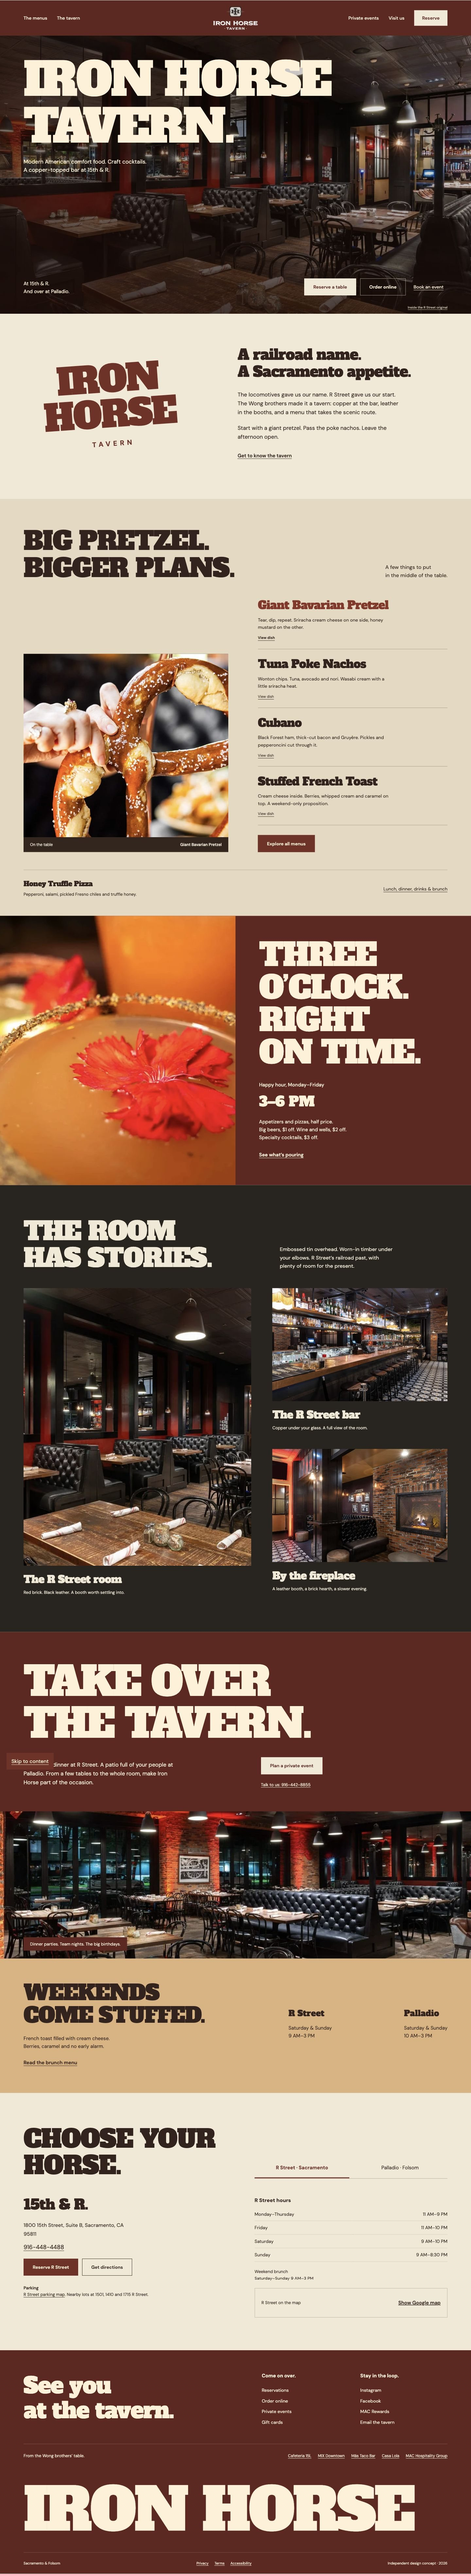
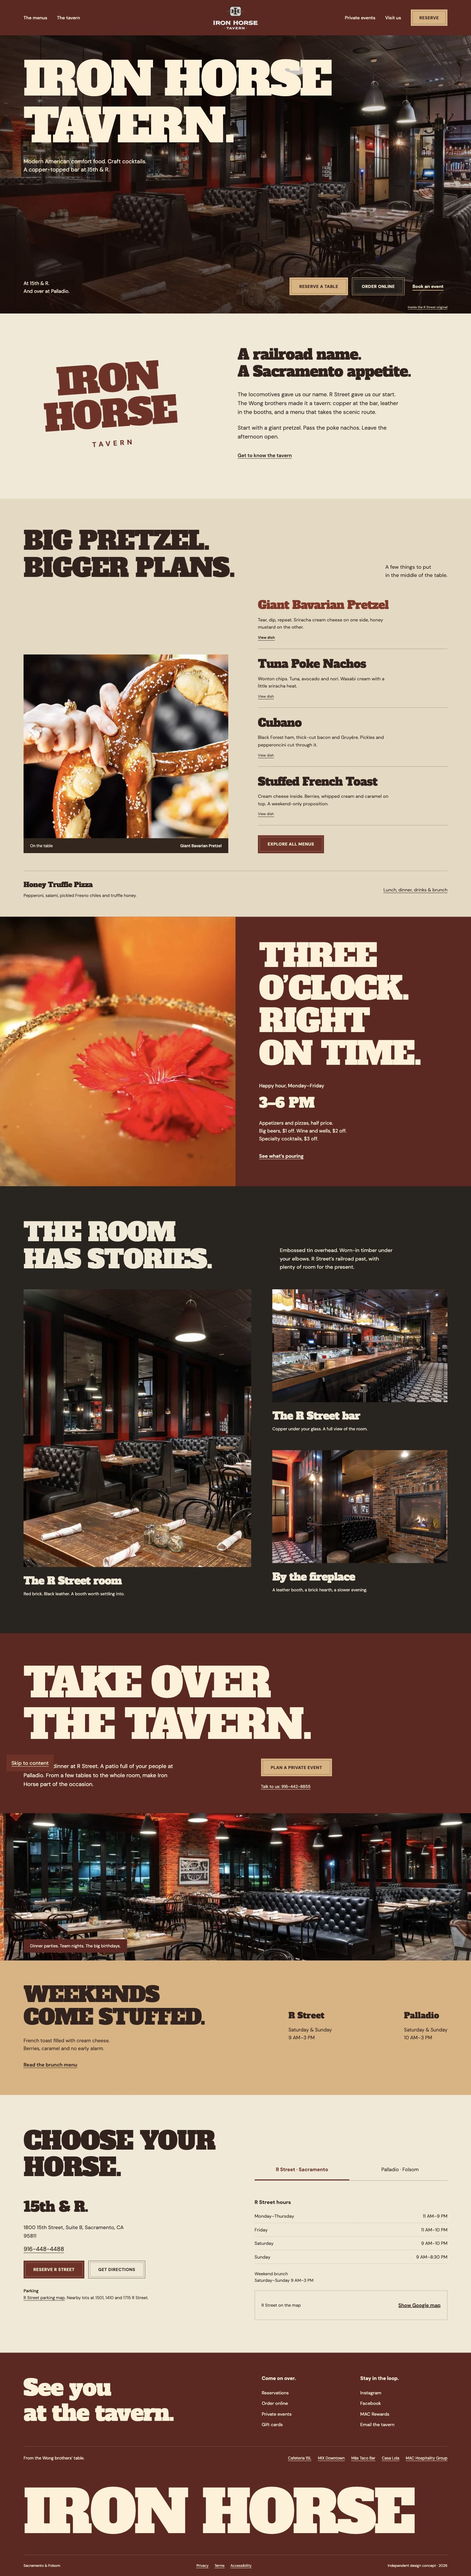
Style tavern buttons with copper frames and clear interaction states
Add inset sign-inspired frames, copper primary actions, outlined secondary actions, subtle press feedback and contrasting keyboard focus. Apply matching controls to mobile navigation and galleries. Preserve labels and destinations.

Checked responsive layouts from 320 to 1440px, local reservation navigation, mobile menu, gallery controls and light/dark contrast. Refresh desktop and mobile previews.

diff --git a/assets/horse.css b/assets/horse.css
@@ -1,7 +1,7 @@
 @font-face{font-family:'Alfa Slab One';font-style:normal;font-weight:400;font-display:swap;src:url('./fonts/alfa-slab-one-0.ttf') format('truetype')}
 :root{scroll-padding-top:24px;scrollbar-color:#d4a06d #63251f}
 .iron-horse-tavern{--paper:#f2e9d6;--ink:#35221d;--muted:#685044;--accent:#762e24;--on-accent:#fff1d6;--panel:#e6dac0;--line:#35221d44;--display:'Alfa Slab One',Georgia,serif;--gutter:clamp(24px,5vw,88px);--space:clamp(70px,8vw,130px);color-scheme:light;max-width:none}
-.shell{max-width:none}.iron-horse-tavern h1,.iron-horse-tavern h2,.iron-horse-tavern h3{font-weight:400;letter-spacing:-.025em}.iron-horse-tavern h1,.iron-horse-tavern h2{line-height:1.06}.iron-horse-tavern h3{text-transform:none}.iron-horse-tavern p{line-height:1.6}a{text-underline-offset:.28em}::selection{background:#d6a16f;color:#331914}:focus-visible{outline-color:#a2592f;outline-offset:6px}.button,.main-nav .button{border-radius:0;min-height:52px;padding:16px 27px;letter-spacing:0;font-size:14px;transition:background .2s,color .2s}.button:hover{transform:none;background:#532018;color:#fff1d6;filter:none}.button.secondary{border-color:currentColor}.button.secondary:hover{background:var(--ink);color:var(--paper)}.plain-link{font-weight:600;font-size:15px;min-height:44px}button:focus-visible,a:focus-visible{outline-width:3px}.site-header{height:108px;background:#63251f;color:#fff1d6;border:0;padding:0 var(--gutter);display:grid;grid-template-columns:1fr 170px 1fr;gap:32px;z-index:40}.brand{grid-column:2;grid-row:1;justify-self:center}.iron-horse-tavern .brand img{filter:none;width:158px;max-height:86px;object-fit:contain}.main-nav{display:contents}.nav-left,.nav-right{display:flex;align-items:center;gap:30px;grid-row:1}.nav-left{grid-column:1}.nav-right{grid-column:3;justify-content:flex-end}.main-nav a{font-size:14px;font-weight:500}.main-nav .button{background:#f2e9d6;color:#63251f;border-color:#f2e9d6;padding:14px 23px;min-height:46px}.main-nav .button:hover{background:#d6a16f;border-color:#d6a16f}.site-header :focus-visible{outline-color:#e7b987}.menu-toggle{color:#fff1d6;border-color:#fff1d688}.horse-hero{position:relative;height:min(850px,calc(100svh - 108px));min-height:650px;color:#fff1d6;background:#351d16;isolation:isolate;display:flex;flex-direction:column;justify-content:space-between;padding:64px var(--gutter) 48px;overflow:hidden}.hero-room{position:absolute;inset:0;z-index:-2}.hero-room img{width:100%;height:100%;object-fit:cover;object-position:50% 52%}.horse-hero:after{content:'';position:absolute;inset:0;z-index:-1;background:linear-gradient(90deg,rgba(29,12,8,.6),rgba(29,12,8,.12) 80%),linear-gradient(0deg,rgba(29,12,8,.75),transparent 55%)}.hero-words h1{font-size:clamp(76px,9.7vw,160px);line-height:1.02;max-width:none;letter-spacing:-.035em}.hero-words p{font-size:17px;margin:24px 0 0;line-height:1.45}.hero-bottom{display:flex;align-items:flex-end;justify-content:space-between;gap:30px;padding-bottom:8px}.hero-bottom p{font-size:15px;margin:0}.hero-bottom .actions{gap:12px}.hero-bottom .button{background:#f2e9d6;color:#63251f;border-color:#f2e9d6}.hero-bottom .button:hover{background:#d6a16f;border-color:#d6a16f}.hero-bottom .secondary{background:transparent;color:#fff1d6;border-color:#fff1d699}.hero-bottom .secondary:hover{background:#63251f}.hero-event{padding:16px 12px;font-size:14px}.hero-bottom :focus-visible,.horse-hero :focus-visible{outline-color:#fff1d6}.photo-credit{position:absolute;bottom:13px;right:var(--gutter);font-size:10px;opacity:.8}.horse-story{padding:100px var(--gutter) 110px;display:grid;grid-template-columns:.9fr 1.1fr;gap:10%;align-items:center}.story-name{font-family:var(--display);font-size:clamp(55px,7.7vw,125px);line-height:.97;color:#762e24;letter-spacing:-.035em;text-align:center;transform:rotate(-4deg)}.story-name span{font-family:var(--body);font-size:.19em;letter-spacing:.4em;display:block;margin:25px 0 0 .4em;font-weight:700}.story-copy{max-width:580px}.story-copy h2{font-size:clamp(32px,3.1vw,49px);text-transform:none;margin-bottom:30px;line-height:1.16}.story-copy p{font-size:17px;max-width:43ch}.horse-menu{background:#e6dac0;padding:88px var(--gutter) 55px}.menu-heading{display:flex;align-items:flex-end;justify-content:space-between;gap:35px;margin-bottom:52px}.menu-heading h2{font-size:clamp(40px,5.4vw,85px);max-width:14ch}.menu-heading p{font-size:16px;margin-bottom:6px}.menu-stage{display:grid;grid-template-columns:1.08fr 1fr;gap:7%;align-items:start}.dish-photo{position:sticky;top:24px;background:#34251d}.dish-photo img{width:100%;height:clamp(420px,39vw,620px);object-fit:cover;object-position:50% 50%;transition:opacity .2s}.dish-photo figcaption{display:flex;justify-content:space-between;gap:20px;color:#f2e9d6;padding:15px 20px;font-size:12px}.dish-photo figcaption span{font-weight:600}.dish-choice{display:block;width:100%;text-align:left;padding:25px 0;border:0;border-bottom:1px solid #35221d55;background:none;color:#35221d;position:relative}.dish-choice:first-child{padding-top:0}.dish-name{display:block;font-family:var(--display);font-size:clamp(25px,2.4vw,38px);letter-spacing:-.025em;line-height:1.2;transition:color .2s}.dish-detail{display:block;font-size:14px;line-height:1.6;max-width:42ch;margin-top:13px}.dish-view{font-size:11px;line-height:1.5;display:inline-block;margin-top:12px;border-bottom:1px solid currentColor}.dish-choice[aria-pressed=true] .dish-name,.dish-choice:hover .dish-name{color:#8a3324}.dish-choice[aria-pressed=true] .dish-view{font-weight:700}.dish-list>.button{margin-top:30px}.menu-afterthought{display:grid;grid-template-columns:1fr 1fr;align-items:center;gap:40px;border-top:1px solid #35221d44;margin-top:54px;padding-top:30px}.menu-afterthought>p{font-size:13px;margin:0}.menu-afterthought h3{font-size:21px;margin-bottom:10px}.menu-afterthought div p{font-size:13px;margin:0}.menu-afterthought>a{font-size:14px;justify-self:end}.horse-hour{display:grid;grid-template-columns:1fr 1fr;min-height:820px;background:#63251f;color:#fff1d6}.hour-photo{overflow:hidden}.hour-photo img{width:100%;height:100%;object-fit:cover;object-position:50% 70%}.hour-copy{padding:70px clamp(30px,5vw,88px)}.hour-copy h2{font-size:clamp(44px,6.7vw,102px);line-height:1.03}.hour-offer{margin-top:40px}.hour-offer h3{font-family:var(--body);font-size:15px;font-weight:500;letter-spacing:0}.hour-offer .hour-time{font-family:var(--display);font-size:42px;margin:10px 0 16px}.hour-offer p{font-size:15px}.horse-hour :focus-visible{outline-color:#e7b987}.horse-rooms{padding:100px var(--gutter) 110px;background:#292520;color:#f2e9d6}.rooms-intro{display:grid;grid-template-columns:1.2fr 1fr;gap:13%;align-items:end;margin-bottom:50px}.rooms-intro h2{font-size:clamp(40px,5.4vw,82px)}.rooms-intro p{max-width:32ch;font-size:16px;margin-bottom:5px}.rooms-grid{display:grid;grid-template-columns:1.3fr 1fr;gap:42px 5%;align-items:start}.rooms-grid .room-photo:first-child{grid-row:span 2}.room-photo{color:#f2e9d6}.room-photo img{width:100%;aspect-ratio:1.55;object-fit:cover}.room-photo:first-child img{aspect-ratio:.82;object-position:47% 50%}.room-photo:nth-child(n){margin:0}.room-photo .room-caption{display:block;margin-top:20px}.room-caption strong{font-family:var(--display);font-weight:400;font-size:clamp(22px,2.2vw,33px);letter-spacing:-.025em}.room-caption small{display:block;font-size:13px;line-height:1.6;margin-top:8px}.room-photo:hover img{transform:none}.rooms-grid .room-photo{overflow:visible}.horse-rooms :focus-visible{outline-color:#d6a16f}.horse-events{background:#63251f;color:#fff1d6;padding-top:88px}.event-poster{padding:0 var(--gutter) 65px}.event-poster h2{font-size:clamp(45px,8.6vw,137px);letter-spacing:-.035em!important;line-height:1.03}.event-description{display:grid;grid-template-columns:1fr 1fr;gap:12%;margin:40px 0 0;align-items:center}.event-description p{max-width:42ch;font-size:17px;margin:0}.event-description>div{display:flex;flex-direction:column;align-items:flex-start;gap:15px}.horse-events .button{background:#f2e9d6;color:#63251f;border-color:#f2e9d6}.event-phone{font-size:13px;padding:8px 0}.event-room{position:relative;height:450px}.event-room img{height:100%;width:100%;object-fit:cover;object-position:50% 55%}.event-room span{position:absolute;bottom:24px;left:var(--gutter);background:#63251f;color:#fff1d6;padding:12px 20px;font-size:13px}.horse-brunch{padding:70px var(--gutter);display:grid;grid-template-columns:1.4fr 1fr;gap:10%;align-items:center;background:#dfb27e}.horse-brunch h2{font-size:clamp(35px,4.5vw,68px);margin-bottom:25px}.horse-brunch p{font-size:15px;margin-bottom:15px}.brunch-times{display:flex;justify-content:space-between;gap:24px}.brunch-times b{display:block;font-family:var(--display);font-weight:400;font-size:25px;margin-bottom:12px}.horse-visit{padding:100px var(--gutter)}.visit-heading{display:grid;grid-template-columns:1fr 1fr;align-items:end;gap:9%;margin-bottom:55px}.visit-heading h2{font-size:clamp(40px,5.3vw,80px)}.location-tabs{display:flex;border-bottom:1px solid #35221d55;gap:10px}.location-tabs button{background:none;color:#35221d;border:0;padding:19px 12px;font-size:15px;flex:1;line-height:1.5;border-bottom:3px solid transparent}.location-tabs button[aria-pressed=true]{border-color:#762e24;color:#762e24;font-weight:700}.branch-panel{display:grid;grid-template-columns:1fr 1fr;gap:9%;align-items:start}.branch-panel[hidden]{display:none}.branch-panel h3{font-size:clamp(28px,3vw,44px);margin:0 0 25px}.branch-address address{font-style:normal;line-height:1.65;font-size:16px;max-width:30ch}.branch-phone{display:inline-block;margin:15px 0 24px;font-size:18px}.branch-address .actions{gap:12px}.parking{margin-top:28px;font-size:13px;max-width:45ch}.parking b{font-weight:600}.hours{width:100%;border-collapse:collapse}.hours caption{text-align:left;font-size:16px;font-weight:700;margin-bottom:12px}.hours tr{border-bottom:1px solid #35221d22}.hours th{font-weight:400;text-align:left;font-size:14px;padding:11px 0}.hours td{font-size:14px;padding:11px 0;text-align:right;font-variant-numeric:tabular-nums}.brunch-note{font-size:13px;margin:20px 0}.map-panel{border:1px solid #35221d44;min-height:90px;padding:15px 20px;display:flex;align-items:center;justify-content:space-between;gap:20px}.map-panel p{font-size:13px;margin:0}.map-panel button{background:none;border:0;color:inherit;text-decoration:underline}.map-panel.map-loaded{display:block;padding:0}.map-panel.map-loaded>p,.map-panel.map-loaded>button{display:none}.map-panel iframe{width:100%;height:300px;display:block;border:0}.horse-footer{background:#63251f;color:#fff1d6;padding:70px var(--gutter) 25px;overflow:hidden}.footer-first{display:grid;grid-template-columns:1.1fr 1fr;gap:8%;padding-bottom:50px}.footer-call{font-family:var(--display);font-size:clamp(38px,4.7vw,72px);line-height:1.13!important;letter-spacing:-.025em;margin:0}.footer-info{display:grid;grid-template-columns:1fr 1fr;gap:35px}.footer-info h2{font-family:var(--body);font-weight:700;font-size:15px;letter-spacing:0;text-transform:none;margin-bottom:20px}.footer-info a{display:block;text-decoration:none;font-size:14px;padding:7px 0}.footer-info a:hover{text-decoration:underline}.family{border-top:1px solid #fff1d633;padding:25px 0;display:flex;gap:35px;justify-content:space-between;align-items:baseline}.family p{font-size:13px;max-width:none;flex-shrink:0}.family>div{display:flex;flex-wrap:wrap;gap:12px 20px;font-size:12px}.footer-word{font-family:var(--display);font-size:clamp(50px,12.4vw,220px);line-height:1.3;letter-spacing:-.04em;white-space:nowrap}.horse-footer .footer-bottom{margin-top:12px;color:#fff1d6;border-color:#fff1d633;font-size:11px;align-items:center}.horse-footer :focus-visible{outline-color:#e7b987}.horse-home .lightbox{background:#292520;color:#f2e9d6}.horse-home .lightbox button{color:#f2e9d6;border-color:#f2e9d666}.horse-home .lightbox :focus-visible{outline-color:#d6a16f}
+.shell{max-width:none}.iron-horse-tavern h1,.iron-horse-tavern h2,.iron-horse-tavern h3{font-weight:400;letter-spacing:-.025em}.iron-horse-tavern h1,.iron-horse-tavern h2{line-height:1.06}.iron-horse-tavern h3{text-transform:none}.iron-horse-tavern p{line-height:1.6}a{text-underline-offset:.28em}::selection{background:#d6a16f;color:#331914}:focus-visible{outline-color:#a2592f;outline-offset:6px}.button,.main-nav .button{--button-fill:#762e24;--button-ink:#fff1d6;--button-edge:#762e24;--button-hover-fill:#532018;--button-hover-ink:#fff1d6;position:relative;border-radius:0;min-height:54px;padding:18px 29px;background:var(--button-fill);color:var(--button-ink);border:1px solid var(--button-edge);letter-spacing:.045em;font-size:13px;font-weight:700;line-height:1.25;text-transform:uppercase;transition:background-color .22s,color .22s,border-color .22s,transform .12s}.button:hover{transform:none;filter:none}.button.secondary{--button-fill:transparent;--button-ink:#35221d;--button-edge:#685044;--button-hover-fill:#35221d;--button-hover-ink:#f2e9d6;background:var(--button-fill);color:var(--button-ink);border-color:var(--button-edge)}.plain-link{font-weight:600;font-size:15px;min-height:44px}button:focus-visible,a:focus-visible{outline-width:3px}.site-header{height:108px;background:#63251f;color:#fff1d6;border:0;padding:0 var(--gutter);display:grid;grid-template-columns:1fr 170px 1fr;gap:32px;z-index:40}.brand{grid-column:2;grid-row:1;justify-self:center}.iron-horse-tavern .brand img{filter:none;width:158px;max-height:86px;object-fit:contain}.main-nav{display:contents}.nav-left,.nav-right{display:flex;align-items:center;gap:30px;grid-row:1}.nav-left{grid-column:1}.nav-right{grid-column:3;justify-content:flex-end}.main-nav a{font-size:14px;font-weight:500}.main-nav .button{--button-fill:#dfb27e;--button-ink:#351b15;--button-edge:#dfb27e;--button-hover-fill:#fff1d6;--button-hover-ink:#63251f;padding:16px 25px;min-height:50px}.site-header :focus-visible{outline-color:#e7b987}.menu-toggle{color:#fff1d6;border-color:#fff1d688}.horse-hero{position:relative;height:min(850px,calc(100svh - 108px));min-height:650px;color:#fff1d6;background:#351d16;isolation:isolate;display:flex;flex-direction:column;justify-content:space-between;padding:64px var(--gutter) 48px;overflow:hidden}.hero-room{position:absolute;inset:0;z-index:-2}.hero-room img{width:100%;height:100%;object-fit:cover;object-position:50% 52%}.horse-hero:after{content:'';position:absolute;inset:0;z-index:-1;background:linear-gradient(90deg,rgba(29,12,8,.6),rgba(29,12,8,.12) 80%),linear-gradient(0deg,rgba(29,12,8,.75),transparent 55%)}.hero-words h1{font-size:clamp(76px,9.7vw,160px);line-height:1.02;max-width:none;letter-spacing:-.035em}.hero-words p{font-size:17px;margin:24px 0 0;line-height:1.45}.hero-bottom{display:flex;align-items:flex-end;justify-content:space-between;gap:30px;padding-bottom:8px}.hero-bottom p{font-size:15px;margin:0}.hero-bottom .actions{gap:12px}.hero-bottom .button{--button-fill:#dfb27e;--button-ink:#351b15;--button-edge:#dfb27e;--button-hover-fill:#fff1d6;--button-hover-ink:#63251f}.hero-bottom .secondary{--button-fill:#292520b8;--button-ink:#fff1d6;--button-edge:#dfb27e;--button-hover-fill:#fff1d6;--button-hover-ink:#63251f}.hero-event{padding:16px 12px;font-size:14px}.hero-bottom :focus-visible,.horse-hero :focus-visible{outline-color:#fff1d6}.photo-credit{position:absolute;bottom:13px;right:var(--gutter);font-size:10px;opacity:.8}.horse-story{padding:100px var(--gutter) 110px;display:grid;grid-template-columns:.9fr 1.1fr;gap:10%;align-items:center}.story-name{font-family:var(--display);font-size:clamp(55px,7.7vw,125px);line-height:.97;color:#762e24;letter-spacing:-.035em;text-align:center;transform:rotate(-4deg)}.story-name span{font-family:var(--body);font-size:.19em;letter-spacing:.4em;display:block;margin:25px 0 0 .4em;font-weight:700}.story-copy{max-width:580px}.story-copy h2{font-size:clamp(32px,3.1vw,49px);text-transform:none;margin-bottom:30px;line-height:1.16}.story-copy p{font-size:17px;max-width:43ch}.horse-menu{background:#e6dac0;padding:88px var(--gutter) 55px}.menu-heading{display:flex;align-items:flex-end;justify-content:space-between;gap:35px;margin-bottom:52px}.menu-heading h2{font-size:clamp(40px,5.4vw,85px);max-width:14ch}.menu-heading p{font-size:16px;margin-bottom:6px}.menu-stage{display:grid;grid-template-columns:1.08fr 1fr;gap:7%;align-items:start}.dish-photo{position:sticky;top:24px;background:#34251d}.dish-photo img{width:100%;height:clamp(420px,39vw,620px);object-fit:cover;object-position:50% 50%;transition:opacity .2s}.dish-photo figcaption{display:flex;justify-content:space-between;gap:20px;color:#f2e9d6;padding:15px 20px;font-size:12px}.dish-photo figcaption span{font-weight:600}.dish-choice{display:block;width:100%;text-align:left;padding:25px 0;border:0;border-bottom:1px solid #35221d55;background:none;color:#35221d;position:relative}.dish-choice:first-child{padding-top:0}.dish-name{display:block;font-family:var(--display);font-size:clamp(25px,2.4vw,38px);letter-spacing:-.025em;line-height:1.2;transition:color .2s}.dish-detail{display:block;font-size:14px;line-height:1.6;max-width:42ch;margin-top:13px}.dish-view{font-size:11px;line-height:1.5;display:inline-block;margin-top:12px;border-bottom:1px solid currentColor}.dish-choice[aria-pressed=true] .dish-name,.dish-choice:hover .dish-name{color:#8a3324}.dish-choice[aria-pressed=true] .dish-view{font-weight:700}.dish-list>.button{margin-top:30px}.menu-afterthought{display:grid;grid-template-columns:1fr 1fr;align-items:center;gap:40px;border-top:1px solid #35221d44;margin-top:54px;padding-top:30px}.menu-afterthought>p{font-size:13px;margin:0}.menu-afterthought h3{font-size:21px;margin-bottom:10px}.menu-afterthought div p{font-size:13px;margin:0}.menu-afterthought>a{font-size:14px;justify-self:end}.horse-hour{display:grid;grid-template-columns:1fr 1fr;min-height:820px;background:#63251f;color:#fff1d6}.hour-photo{overflow:hidden}.hour-photo img{width:100%;height:100%;object-fit:cover;object-position:50% 70%}.hour-copy{padding:70px clamp(30px,5vw,88px)}.hour-copy h2{font-size:clamp(44px,6.7vw,102px);line-height:1.03}.hour-offer{margin-top:40px}.hour-offer h3{font-family:var(--body);font-size:15px;font-weight:500;letter-spacing:0}.hour-offer .hour-time{font-family:var(--display);font-size:42px;margin:10px 0 16px}.hour-offer p{font-size:15px}.horse-hour :focus-visible{outline-color:#e7b987}.horse-rooms{padding:100px var(--gutter) 110px;background:#292520;color:#f2e9d6}.rooms-intro{display:grid;grid-template-columns:1.2fr 1fr;gap:13%;align-items:end;margin-bottom:50px}.rooms-intro h2{font-size:clamp(40px,5.4vw,82px)}.rooms-intro p{max-width:32ch;font-size:16px;margin-bottom:5px}.rooms-grid{display:grid;grid-template-columns:1.3fr 1fr;gap:42px 5%;align-items:start}.rooms-grid .room-photo:first-child{grid-row:span 2}.room-photo{color:#f2e9d6}.room-photo img{width:100%;aspect-ratio:1.55;object-fit:cover}.room-photo:first-child img{aspect-ratio:.82;object-position:47% 50%}.room-photo:nth-child(n){margin:0}.room-photo .room-caption{display:block;margin-top:20px}.room-caption strong{font-family:var(--display);font-weight:400;font-size:clamp(22px,2.2vw,33px);letter-spacing:-.025em}.room-caption small{display:block;font-size:13px;line-height:1.6;margin-top:8px}.room-photo:hover img{transform:none}.rooms-grid .room-photo{overflow:visible}.horse-rooms :focus-visible{outline-color:#d6a16f}.horse-events{background:#63251f;color:#fff1d6;padding-top:88px}.event-poster{padding:0 var(--gutter) 65px}.event-poster h2{font-size:clamp(45px,8.6vw,137px);letter-spacing:-.035em!important;line-height:1.03}.event-description{display:grid;grid-template-columns:1fr 1fr;gap:12%;margin:40px 0 0;align-items:center}.event-description p{max-width:42ch;font-size:17px;margin:0}.event-description>div{display:flex;flex-direction:column;align-items:flex-start;gap:15px}.horse-events .button{--button-fill:#dfb27e;--button-ink:#351b15;--button-edge:#dfb27e;--button-hover-fill:#fff1d6;--button-hover-ink:#63251f}.event-phone{font-size:13px;padding:8px 0}.event-room{position:relative;height:450px}.event-room img{height:100%;width:100%;object-fit:cover;object-position:50% 55%}.event-room span{position:absolute;bottom:24px;left:var(--gutter);background:#63251f;color:#fff1d6;padding:12px 20px;font-size:13px}.horse-brunch{padding:70px var(--gutter);display:grid;grid-template-columns:1.4fr 1fr;gap:10%;align-items:center;background:#dfb27e}.horse-brunch h2{font-size:clamp(35px,4.5vw,68px);margin-bottom:25px}.horse-brunch p{font-size:15px;margin-bottom:15px}.brunch-times{display:flex;justify-content:space-between;gap:24px}.brunch-times b{display:block;font-family:var(--display);font-weight:400;font-size:25px;margin-bottom:12px}.horse-visit{padding:100px var(--gutter)}.visit-heading{display:grid;grid-template-columns:1fr 1fr;align-items:end;gap:9%;margin-bottom:55px}.visit-heading h2{font-size:clamp(40px,5.3vw,80px)}.location-tabs{display:flex;border-bottom:1px solid #35221d55;gap:10px}.location-tabs button{background:none;color:#35221d;border:0;padding:19px 12px;font-size:15px;flex:1;line-height:1.5;border-bottom:3px solid transparent}.location-tabs button[aria-pressed=true]{border-color:#762e24;color:#762e24;font-weight:700}.branch-panel{display:grid;grid-template-columns:1fr 1fr;gap:9%;align-items:start}.branch-panel[hidden]{display:none}.branch-panel h3{font-size:clamp(28px,3vw,44px);margin:0 0 25px}.branch-address address{font-style:normal;line-height:1.65;font-size:16px;max-width:30ch}.branch-phone{display:inline-block;margin:15px 0 24px;font-size:18px}.branch-address .actions{gap:12px}.parking{margin-top:28px;font-size:13px;max-width:45ch}.parking b{font-weight:600}.hours{width:100%;border-collapse:collapse}.hours caption{text-align:left;font-size:16px;font-weight:700;margin-bottom:12px}.hours tr{border-bottom:1px solid #35221d22}.hours th{font-weight:400;text-align:left;font-size:14px;padding:11px 0}.hours td{font-size:14px;padding:11px 0;text-align:right;font-variant-numeric:tabular-nums}.brunch-note{font-size:13px;margin:20px 0}.map-panel{border:1px solid #35221d44;min-height:90px;padding:15px 20px;display:flex;align-items:center;justify-content:space-between;gap:20px}.map-panel p{font-size:13px;margin:0}.map-panel button{background:none;border:0;color:inherit;text-decoration:underline}.map-panel.map-loaded{display:block;padding:0}.map-panel.map-loaded>p,.map-panel.map-loaded>button{display:none}.map-panel iframe{width:100%;height:300px;display:block;border:0}.horse-footer{background:#63251f;color:#fff1d6;padding:70px var(--gutter) 25px;overflow:hidden}.footer-first{display:grid;grid-template-columns:1.1fr 1fr;gap:8%;padding-bottom:50px}.footer-call{font-family:var(--display);font-size:clamp(38px,4.7vw,72px);line-height:1.13!important;letter-spacing:-.025em;margin:0}.footer-info{display:grid;grid-template-columns:1fr 1fr;gap:35px}.footer-info h2{font-family:var(--body);font-weight:700;font-size:15px;letter-spacing:0;text-transform:none;margin-bottom:20px}.footer-info a{display:block;text-decoration:none;font-size:14px;padding:7px 0}.footer-info a:hover{text-decoration:underline}.family{border-top:1px solid #fff1d633;padding:25px 0;display:flex;gap:35px;justify-content:space-between;align-items:baseline}.family p{font-size:13px;max-width:none;flex-shrink:0}.family>div{display:flex;flex-wrap:wrap;gap:12px 20px;font-size:12px}.footer-word{font-family:var(--display);font-size:clamp(50px,12.4vw,220px);line-height:1.3;letter-spacing:-.04em;white-space:nowrap}.horse-footer .footer-bottom{margin-top:12px;color:#fff1d6;border-color:#fff1d633;font-size:11px;align-items:center}.horse-footer :focus-visible{outline-color:#e7b987}.horse-home .lightbox{background:#292520;color:#f2e9d6}.horse-home .lightbox button{color:#f2e9d6;border-color:#f2e9d666}.horse-home .lightbox :focus-visible{outline-color:#d6a16f}
 /* Inner pages keep the same sign-painted identity and all verified service links. */
 .iron-horse-tavern:not(.horse-home) .page-head{padding:70px var(--gutter) 60px;background:#e6dac0;margin-bottom:60px}.iron-horse-tavern:not(.horse-home) .page-head h1{font-size:clamp(44px,6vw,88px);max-width:16ch}.back-home{display:none}.page-head p{max-width:50ch}.iron-horse-tavern:not(.horse-home) .section h2{font-size:clamp(30px,3.3vw,48px)}.iron-horse-tavern:not(.horse-home) .menu-item h2{font-size:clamp(25px,2.6vw,38px);text-transform:none}.iron-horse-tavern:not(.horse-home) .location h2{font-size:42px}.iron-horse-tavern:not(.horse-home) .menu-layout .photo{height:650px}.menu-item .button{white-space:normal;text-align:left}.event-lead .plain-link{display:block;font-size:13px;margin-top:15px}.event-contact{margin-bottom:30px;background:#dfb27e}.event-contact h2{font-size:36px}.room h3{font-size:26px}.iron-horse-tavern:not(.horse-home) main{min-height:55svh}
 @keyframes room-arrival{from{transform:scale(1.055)}to{transform:scale(1)}}
@@ -11,4 +11,70 @@
 @media(max-width:900px){.site-header{height:90px;display:flex;justify-content:space-between}.site-header .brand{margin:0;max-width:70%;justify-self:start}.iron-horse-tavern .site-header .brand img{width:135px;max-height:75px}.menu-toggle{display:block;margin-left:auto;min-width:76px}.main-nav{display:none;position:absolute;top:100%;left:0;right:0;padding:24px var(--gutter) 30px;background:#63251f;color:#fff1d6;max-height:calc(100svh - 90px);overflow:auto;border-bottom:1px solid #fff1d666}.main-nav.is-open{display:flex;flex-direction:column}.main-nav .nav-left,.main-nav .nav-right{display:flex;flex-direction:column;align-items:stretch;gap:0}.main-nav a{padding:14px 0}.main-nav .button{align-self:flex-start;margin-top:15px;padding:16px 26px}.horse-hero{min-height:610px;height:calc(100svh - 90px)}.hero-bottom{align-items:start;flex-direction:column;gap:25px}.hero-bottom p br{display:none}.hero-bottom p{font-size:14px}.menu-heading h2{font-size:5.7vw}.horse-story{grid-template-columns:.8fr 1.2fr;gap:8%}.story-name{font-size:8vw}.story-copy h2{font-size:32px}.menu-stage{grid-template-columns:1fr 1fr}.dish-photo img{height:475px}.dish-name{font-size:24px}.dish-detail{font-size:13px}.dish-choice{padding:20px 0}.menu-afterthought{gap:24px;grid-template-columns:1fr 1fr}.rooms-intro{gap:8%}.rooms-intro p{font-size:15px}.room-caption strong{font-size:23px}.room-caption small{font-size:12px}.event-description{gap:8%}.event-description p{font-size:15px}.event-room{height:380px}.visit-heading{gap:6%}.location-tabs button{font-size:13px;padding:15px 8px}.branch-panel{gap:6%}.branch-address .button{font-size:13px;padding:15px 18px}.footer-first{gap:7%;grid-template-columns:1fr 1fr}.footer-info{gap:24px}.footer-info h2{font-size:13px}.footer-info a{font-size:13px}}
 @media(max-width:650px){.iron-horse-tavern{--gutter:22px;--space:65px}.site-header{padding:0 22px;height:82px}.iron-horse-tavern .site-header .brand img{width:123px;max-height:70px}.main-nav{max-height:calc(100svh - 82px)}.horse-hero{height:calc(100svh - 82px);min-height:650px;max-height:850px;padding:58px 22px 47px}.hero-room img{object-position:40% 50%}.horse-hero:after{background:linear-gradient(90deg,#1d0c0870,#1d0c0826),linear-gradient(0deg,#1d0c08cc,transparent 85%)}.hero-words h1{font-size:clamp(44px,11vw,72px);line-height:1.16;letter-spacing:-.03em}.hero-words p{font-size:15px;margin-top:24px;max-width:26ch}.hero-bottom{gap:19px;padding-bottom:0}.hero-bottom p{font-size:13px}.hero-bottom p br{display:block}.hero-bottom .actions{width:100%;display:grid;grid-template-columns:1fr 1fr;gap:10px}.hero-bottom .button{padding:15px 10px;font-size:13px;min-height:50px}.hero-event{grid-column:1/-1;padding:8px 0;font-size:13px;justify-self:start}.photo-credit{font-size:9px;bottom:13px;right:22px}.horse-story{padding:65px 22px 70px;display:block}.story-name{font-size:19vw;margin:0 auto 55px;width:max-content}.story-name span{margin-top:16px}.story-copy h2{font-size:32px;line-height:1.2;margin-bottom:25px}.story-copy p{font-size:16px}.horse-menu{padding:60px 22px 40px}.menu-heading{display:block;margin-bottom:30px}.menu-heading h2{font-size:clamp(30px,8.4vw,52px);line-height:1.15}.menu-heading p{font-size:14px;margin:22px 0 0}.menu-heading p br{display:none}.menu-stage{grid-template-columns:1fr;gap:30px}.dish-photo{position:relative;top:0}.dish-photo img{height:330px;aspect-ratio:1.05;object-fit:cover}.dish-photo figcaption{font-size:11px;padding:13px 14px;gap:10px}.dish-name{font-size:25px}.dish-detail{font-size:14px;max-width:100%}.dish-choice{padding:22px 0}.dish-choice .dish-view{display:inline-block}.dish-list .dish-photo{margin:22px 0 6px}.dish-list>.button{width:100%}.menu-afterthought{grid-template-columns:1fr;gap:20px;margin-top:35px;padding-top:25px}.menu-afterthought>p{font-size:12px}.menu-afterthought>a{justify-self:start}.horse-hour{display:flex;flex-direction:column;min-height:0}.hour-photo{height:340px;order:2}.hour-photo img{object-position:50% 59%}.hour-copy{padding:55px 22px 50px}.hour-copy h2{font-size:clamp(44px,12vw,70px);line-height:1.03}.hour-offer{margin-top:30px}.hour-offer .hour-time{font-size:37px;margin:13px 0}.hour-offer p{font-size:14px}.horse-rooms{padding:60px 22px}.rooms-intro{display:block;margin-bottom:35px}.rooms-intro h2{font-size:clamp(35px,9vw,55px);line-height:1.13}.rooms-intro p{max-width:33ch;font-size:15px;margin-top:25px}.rooms-grid{display:block}.rooms-grid .room-photo{margin:0 0 35px}.rooms-grid .room-photo:last-child{margin-bottom:0}.room-photo:first-child img{aspect-ratio:1.1;object-position:50% 50%}.room-photo img{aspect-ratio:1.4}.room-caption strong{font-size:24px}.room-caption small{font-size:13px}.horse-events{padding-top:60px}.event-poster{padding:0 22px 40px}.event-poster h2{font-size:clamp(31px,8.7vw,53px);line-height:1.13}.event-description{display:block;margin-top:26px}.event-description p{font-size:15px}.event-description>div{margin-top:24px}.event-room{height:320px}.event-room span{font-size:11px;left:16px;right:16px;bottom:16px;padding:11px;text-align:center}.horse-brunch{padding:55px 22px;display:block}.horse-brunch h2{font-size:clamp(30px,8vw,49px);line-height:1.16}.horse-brunch p{font-size:14px}.brunch-times{flex-direction:row;gap:20px;justify-content:flex-start;margin-top:25px}.brunch-times b{font-size:22px}.brunch-times p{font-size:13px}.horse-visit{padding:60px 22px}.visit-heading{display:block;margin-bottom:35px}.visit-heading h2{font-size:clamp(37px,10vw,58px);line-height:1.15}.location-tabs{margin-top:30px;gap:0}.location-tabs button{font-size:13px;padding:16px 8px}.branch-panel{grid-template-columns:1fr;gap:30px}.branch-panel h3{font-size:32px;margin-bottom:20px}.branch-address .actions{display:flex;gap:10px}.branch-address .button{font-size:13px;padding:15px 19px}.parking{margin-bottom:0;font-size:13px}.map-panel{padding:12px 14px;gap:15px}.map-panel button{font-size:13px;white-space:nowrap}.hours td,.hours th{font-size:13px!important}.horse-footer{padding:55px 22px 25px}.footer-first{display:block;padding-bottom:30px}.footer-call{font-size:40px;margin-bottom:38px}.footer-info{gap:23px}.footer-info h2{font-size:13px}.footer-info a{font-size:13px;padding:9px 0}.family{padding-top:25px}.family p{font-size:12px;margin-bottom:16px}.family>div{gap:16px 22px;font-size:12px}.footer-word{font-size:11.7vw;line-height:1.45;letter-spacing:-.04em;margin:8px 0 20px}.horse-footer .footer-bottom{font-size:10px;gap:18px;display:flex;flex-direction:column;align-items:flex-start;margin-top:0}.iron-horse-tavern:not(.horse-home) .page-head{padding:45px 22px;margin-bottom:40px}.iron-horse-tavern:not(.horse-home) .page-head h1{font-size:clamp(34px,9vw,55px);line-height:1.13;overflow-wrap:normal}.iron-horse-tavern:not(.horse-home) .page-head p{font-size:15px}.iron-horse-tavern:not(.horse-home) .menu-layout .photo{height:300px}.iron-horse-tavern:not(.horse-home) .section h2{font-size:30px}.iron-horse-tavern:not(.horse-home) .menu-item h2{font-size:27px}.iron-horse-tavern:not(.horse-home) .location h2{font-size:32px}.event-contact h2{font-size:28px}.iron-horse-tavern:not(.horse-home) .section{padding-left:22px;padding-right:22px}.event-contact{padding:32px 24px}.lightbox img{height:56dvh}}
 @media(max-width:360px){.iron-horse-tavern{--gutter:18px}.site-header{padding:0 18px}.horse-hero{padding-left:18px;padding-right:18px;min-height:620px}.hero-words h1{font-size:10.9vw}.hero-bottom .button{font-size:12px;padding:15px 8px}.story-copy h2{font-size:29px}.dish-name{font-size:23px}.dish-photo img{height:275px}.hour-copy h2{font-size:12vw}.event-poster h2{font-size:8.5vw}.brunch-times{gap:16px}.branch-address .button{padding:15px 14px;font-size:12px}.map-panel{gap:10px}.map-panel p{font-size:12px}.footer-call{font-size:36px}.footer-info h2{font-size:12px}.footer-info a{font-size:12px}.horse-footer .footer-word{font-size:11.4vw}}
+
+/* Inset copper rules echo the tavern's framed sign and bar fittings. */
+.button::before,
+.menu-toggle::before,
+.lightbox-controls button::before {
+  content: "";
+  position: absolute;
+  inset: 4px;
+  border: 1px solid currentColor;
+  opacity: .38;
+  pointer-events: none;
+  transition: opacity .22s;
+}
+.menu-toggle,
+.lightbox-controls button {
+  position: relative;
+  border: 1px solid #dfb27e;
+  border-radius: 0;
+  background: transparent;
+  color: #fff1d6;
+  font-family: var(--body);
+  font-weight: 600;
+  letter-spacing: .035em;
+  transition: background-color .22s, color .22s, transform .12s;
+}
+.lightbox-controls button { min-width: 78px; color: var(--ink); border-color: #685044; }
+.hero-event {
+  color: #fff1d6;
+  font-weight: 600;
+  text-decoration-color: #dfb27e;
+  text-decoration-thickness: 2px;
+  text-underline-offset: .45em;
+  transition: color .22s, text-underline-offset .22s;
+}
+@media (hover: hover) {
+  .button:hover,
+  .button.secondary:hover,
+  .main-nav .button:hover {
+    background: var(--button-hover-fill);
+    color: var(--button-hover-ink);
+    border-color: var(--button-hover-fill);
+  }
+  .button:hover::before,
+  .menu-toggle:hover::before,
+  .lightbox-controls button:hover::before { opacity: .7; }
+  .menu-toggle:hover,
+  .lightbox-controls button:hover { background: #dfb27e; color: #351b15; }
+  .hero-event:hover { color: #dfb27e; text-underline-offset: .6em; }
+}
+.button:active,
+.menu-toggle:active,
+.lightbox-controls button:active { transform: translateY(1px); }
+.button:focus-visible { outline: 3px solid #762e24; outline-offset: 5px; }
+.site-header .button:focus-visible,
+.horse-hero .button:focus-visible,
+.horse-events .button:focus-visible,
+.menu-toggle:focus-visible { outline: 3px solid #fff1d6; outline-offset: 5px; }
+.lightbox-controls button:focus-visible { outline: 3px solid #762e24; outline-offset: 5px; }
+.button:focus-visible::before { opacity: .8; }
+.menu-toggle[aria-expanded="true"] { background: #dfb27e; color: #351b15; }
+@media (max-width: 650px) {
+  .hero-bottom .button { font-size: 11px; letter-spacing: .035em; min-height: 54px; padding: 17px 10px; }
+  .main-nav .button { font-size: 14px !important; }
+  .branch-address .button { font-size: 11px; letter-spacing: .025em; }
+}
+
 @media(prefers-reduced-motion:reduce){html{scroll-behavior:auto}*,*:before,*:after{animation:none!important;transition:none!important;scroll-behavior:auto!important}}

diff --git a/DESIGN.md b/DESIGN.md
@@ -45,9 +45,9 @@ typography:
     lineHeight: 1.6
   button:
     fontFamily: "DM Sans, sans-serif"
-    fontSize: "14px"
-    fontWeight: 600
-    lineHeight: 1.2
+    fontSize: "13px"
+    fontWeight: 700
+    lineHeight: 1.25
 rounded:
   square: "0"
   toggle: "2px"
@@ -64,19 +64,19 @@ components:
     textColor: "{colors.on-accent}"
     typography: "{typography.button}"
     rounded: "{rounded.square}"
-    padding: "16px 27px"
+    padding: "18px 29px"
   button-secondary:
     backgroundColor: "transparent"
     textColor: "{colors.ink}"
     typography: "{typography.button}"
     rounded: "{rounded.square}"
-    padding: "16px 27px"
+    padding: "18px 29px"
   button-inverse:
-    backgroundColor: "{colors.paper}"
-    textColor: "{colors.brick}"
+    backgroundColor: "{colors.copper}"
+    textColor: "#351b15"
     typography: "{typography.button}"
     rounded: "{rounded.square}"
-    padding: "16px 27px"
+    padding: "18px 29px"
   navigation:
     backgroundColor: "{colors.brick}"
     textColor: "{colors.on-accent}"
@@ -143,11 +143,11 @@ Photographic overlays protect hero legibility. Solid surfaces, imagery and fine 
 
 ## Shapes
 
-Buttons, photographs and main panels have square corners. The inherited navigation toggle alone retains a subtle 2px radius. The story wordmark has a slight painted-sign rotation; this is not a license to add tilted promotional labels.
+Buttons, photographs and main panels have square corners. The navigation toggle also uses square corners. The story wordmark has a slight painted-sign rotation; this is not a license to add tilted promotional labels.
 
 ## Components
 
-- **Actions:** primary red, transparent secondary and cream inverse variants use text-only labels, 1px borders and a 52px base minimum height. Hover changes color without translation. Header actions are 46px minimum; mobile hero actions are 50px. Focus remains a visible 3px outline with 6px offset and a surface-appropriate color.
+- **Actions:** primary red, outlined secondary and copper inverse variants use uppercase text-only labels with a fine inset frame, echoing the tavern sign. Base and mobile hero buttons are at least 54px tall; the header action is at least 50px. Hover changes fill and border color; press moves the control down 1px. Keyboard focus uses a contrasting 3px ring with a 5px offset. The mobile menu and gallery controls share the framed treatment. Reduced-motion disables transitions and animations.
 - **Navigation:** brick surface, cream labels, underline hover/current state. The disclosure closes on Escape, link selection, outside click or desktop resize; Escape restores toggle focus.
 - **Dish selector:** four buttons update a shared image on click, keyboard focus or mouse hover. The selected title turns warm red; its “View dish” cue gains weight. Descriptions remain readable without JavaScript. Honey Truffle Pizza is a fifth, text-only menu feature.
 - **Location selector and map:** two pressed-state buttons switch branch-specific details, with a red underline indicating selection. Maps load only on activation and receive focus. Both branches remain in the document without JavaScript.

diff --git a/QA.md b/QA.md
@@ -17,3 +17,7 @@ The independent reviewer identified four material corrections and scored all fou
 ## Restaurant hero and R Street photo update
 
 Hero copy changed to the restaurant name and a direct description of its food, cocktails and copper-topped bar. Room images on the homepage, gallery, event and reservation pages now use R Street photographs. Captions and gallery enlargement match. The revised hero fits at 320, 390, 768, 1024 and 1440px without horizontal overflow. New photographs load correctly; all 11 routes still pass local link, asset and copy checks. Desktop and mobile previews are refreshed.
+
+## Button styling refinement
+
+Shared buttons now use inset sign frames, copper inverse actions and consistent hover, press and keyboard-focus states. Verified homepage overflow at 320, 390, 768, 1024 and 1440px; mobile hero targets are 54px tall. Confirmed mobile navigation opens and closes with Escape, the hero reservation link reaches its local route, and gallery controls still open and close the viewer. The reservation route has no button-text overflow at 320px. Existing reduced-motion support also covers the new transitions.
